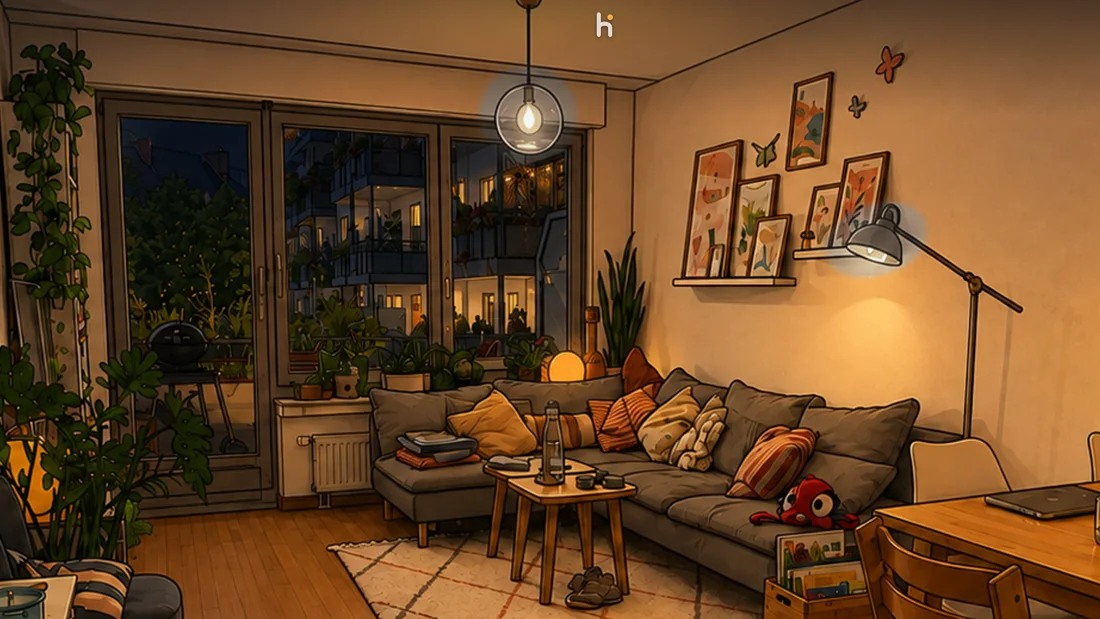
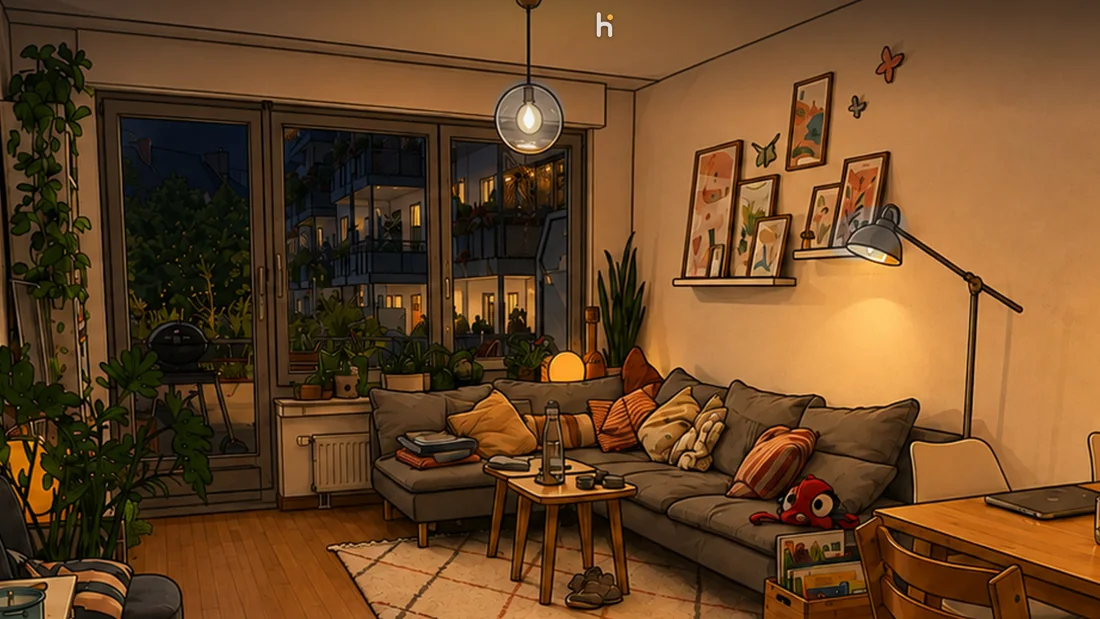
chore(public): promote private source 2d398f7e0242
Private-Source: 2d398f7e02424f9d21ca521e7d3824b8a1775445

diff --git a/app/src/lib/demo/demo-mode.ts b/app/src/lib/demo/demo-mode.ts
@@ -439,6 +439,67 @@ export const DEMO_DEVICE_CONFIG_KEY = 'hmi:device-config:v1';
 export const DEMO_LIGHT_PLACEMENT_KEY = 'hmi:immersion-light:v1';
 const DEMO_LIGHT_PLACEMENTS = {
   wohnzimmer: {
+    'light.wohnzimmer_kugellampen': { x: 0.4575, y: 0.199, radius: 0.022 },
+    'light.wohnzimmer_esstisch': { x: 0.894, y: 0.119, radius: 0.058, ry: 0.034 },
+    'light.wohnzimmer_fensterlampe': { x: 0.648, y: 0.293, radius: 0.025, ry: 0.016, rotation: -18 },
+    'light.wohnzimmer_tv': { x: 0.476, y: 0.398, radius: 0.013 },
+    [DEMO_COVER_ENTITY]: { x: 0.36, y: 0.3, radius: 0.16 },
+  },
+  schlafzimmer: {
+    'light.schlafzimmer_bett': { x: 0.658, y: 0.475, radius: 0.018, ry: 0.017 },
+  },
+  bad: {
+    'light.bad_spiegel': { x: 0.059, y: 0.067, radius: 0.045, ry: 0.051 },
+  },
+  kueche: {
+    'light.kueche_ledleiste': { x: 0.9, y: 0.314, radius: 0.105, ry: 0.012 },
+  },
+};
+
+/* Die Projektseite zeigt die Bildsteuerung und verlinkt das Bild auf
+   `demo/#image` (Owner 2026-10-25): Dort öffnet die Demo gleich im Wohnzimmer in
+   der Bildsteuerung, ohne Begrüßung im Standby — wer auf die Lampe im Bild
+   tippen wollte, tippt jetzt auf die echte. Die bisherige Anordnung wird
+   gemerkt und beim nächsten Aufruf ohne Sprungmarke zurückgelegt, damit
+   „Open the demo“ wieder wie gewohnt beginnt. Text statt layout-config.ts,
+   damit der Startpfad klein bleibt. */
+const DEMO_LAYOUT_KEY = 'hmi:home-layout:v1';
+const DEMO_LAYOUT_BEFORE_IMAGE_KEY = 'hmi:demo-layout-before-image';
+export const DEMO_IMAGE_HASH = 'image';
+
+export function applyDemoImageLink(
+  hash: string,
+  storage: Pick<Storage, 'getItem' | 'setItem' | 'removeItem'>,
+  session: Pick<Storage, 'setItem'> | null,
+): void {
+  const before = storage.getItem(DEMO_LAYOUT_BEFORE_IMAGE_KEY);
+  if (hash.replace(/^#/, '').trim().toLowerCase() !== DEMO_IMAGE_HASH) {
+    if (before === null) return;
+    if (before === '') storage.removeItem(DEMO_LAYOUT_KEY);
+    else storage.setItem(DEMO_LAYOUT_KEY, before);
+    storage.removeItem(DEMO_LAYOUT_BEFORE_IMAGE_KEY);
+    return;
+  }
+  const current = storage.getItem(DEMO_LAYOUT_KEY);
+  if (before === null) storage.setItem(DEMO_LAYOUT_BEFORE_IMAGE_KEY, current ?? '');
+  let layout: Record<string, unknown> = {};
+  try { layout = JSON.parse(current ?? '{}') ?? {}; } catch { /* kaputt: neu anlegen */ }
+  if (typeof layout !== 'object' || Array.isArray(layout)) layout = {};
+  /* Eine Fläche genügt: Die Bildsteuerung zeigt keine Kontrollfläche. */
+  storage.setItem(DEMO_LAYOUT_KEY, JSON.stringify({
+    widthPreset: 'compact', ...layout, version: 1, homeView: 'image',
+    slots: [{ id: 'slot-1', roomId: 'wohnzimmer' }],
+  }));
+  try { session?.setItem('hmi:demo-greeted', '1'); } catch { /* dann eben mit Begrüßung */ }
+}
+
+/* Bis 0.48.1 reichten die Zonen weit über die gezeichneten Lampen hinaus; der
+   Schleier einer ausgeschalteten Lampe lag dann als grauer Fleck daneben
+   (Owner 2026-10-25). Wer die Demo damals geöffnet hat, trägt diese
+   Vorbelegung noch im Speicher. Liegt sie dort unverändert, wird sie durch die
+   engen Zonen ersetzt; selbst gesetzte Stellen bleiben. */
+const DEMO_LIGHT_PLACEMENTS_0_48 = {
+  wohnzimmer: {
     'light.wohnzimmer_kugellampen': { x: 0.457, y: 0.199, radius: 0.03 },
     'light.wohnzimmer_esstisch': { x: 0.889, y: 0.14, radius: 0.062, ry: 0.052 },
     'light.wohnzimmer_fensterlampe': { x: 0.653, y: 0.298, radius: 0.032, ry: 0.022, rotation: -18 },
@@ -459,7 +520,8 @@ const DEMO_LIGHT_PLACEMENTS = {
 export function installDemoDevices(storage: Pick<Storage, 'getItem' | 'setItem'> | null = typeof localStorage === 'undefined' ? null : localStorage): void {
   if (!IS_DEMO || !storage) return;
   try {
-    if (storage.getItem(DEMO_LIGHT_PLACEMENT_KEY) === null) {
+    const stored = storage.getItem(DEMO_LIGHT_PLACEMENT_KEY);
+    if (stored === null || stored === JSON.stringify({ version: 1, rooms: DEMO_LIGHT_PLACEMENTS_0_48 })) {
       storage.setItem(DEMO_LIGHT_PLACEMENT_KEY, JSON.stringify({ version: 1, rooms: DEMO_LIGHT_PLACEMENTS }));
     }
   } catch { /* ohne Speicher keine Vorbelegung, die Demo läuft trotzdem */ }
@@ -479,6 +541,9 @@ export function installDemoDevices(storage: Pick<Storage, 'getItem' | 'setItem'>
 export function installDemoApi(): void {
   if (!IS_DEMO || typeof globalThis.fetch !== 'function') return;
   installDemoDevices();
+  try {
+    applyDemoImageLink(location.hash, localStorage, sessionStorage);
+  } catch { /* ohne Speicher startet die Demo wie immer */ }
 
   const original = globalThis.fetch.bind(globalThis);
 

diff --git a/app/src/lib/demo/demo-mode.test.ts b/app/src/lib/demo/demo-mode.test.ts
@@ -1,5 +1,6 @@
 import { describe, expect, it } from 'vitest';
-import { DEMO_DEVICE_CONFIG_KEY, DEMO_LIGHT_PLACEMENT_KEY, installDemoDevices } from './demo-mode.ts';
+import { applyDemoImageLink, DEMO_DEVICE_CONFIG_KEY, DEMO_LIGHT_PLACEMENT_KEY, installDemoDevices } from './demo-mode.ts';
+import { LAYOUT_CONFIG_KEY, parseLayoutConfig } from '../state/layout-config.ts';
 import { DEVICE_CONFIG_KEY, parseDeviceConfig } from '../state/device-config.ts';
 import { IMMERSION_LIGHT_CONFIG_KEY, parseImmersionLightConfig } from '../state/immersion-light.ts';
 
@@ -23,6 +24,50 @@ describe('demo devices', () => {
     store.set(IMMERSION_LIGHT_CONFIG_KEY, '{"version":1,"rooms":{}}');
     installDemoDevices(storage);
     expect(store.get(IMMERSION_LIGHT_CONFIG_KEY)).toBe('{"version":1,"rooms":{}}');
+  });
+
+  it('replaces the untouched wide seed of earlier visits with the close zones', () => {
+    const store = new Map<string, string>();
+    const storage = { getItem: (k: string) => store.get(k) ?? null, setItem: (k: string, v: string) => { store.set(k, v); } };
+    installDemoDevices(storage);
+    const seeded = store.get(IMMERSION_LIGHT_CONFIG_KEY);
+    if (!seeded) return; // nicht im Demo-Build: nichts vorbelegt
+    /* Die breite Vorbelegung bis 0.48.1 im Speicher eines früheren Besuchs. */
+    const wide = JSON.parse(seeded);
+    wide.rooms.wohnzimmer['light.wohnzimmer_kugellampen'] = { x: 0.457, y: 0.199, radius: 0.03 };
+    wide.rooms.wohnzimmer['light.wohnzimmer_esstisch'] = { x: 0.889, y: 0.14, radius: 0.062, ry: 0.052 };
+    wide.rooms.wohnzimmer['light.wohnzimmer_fensterlampe'] = { x: 0.653, y: 0.298, radius: 0.032, ry: 0.022, rotation: -18 };
+    wide.rooms.wohnzimmer['light.wohnzimmer_tv'] = { x: 0.479, y: 0.398, radius: 0.024 };
+    wide.rooms.schlafzimmer['light.schlafzimmer_bett'] = { x: 0.658, y: 0.475, radius: 0.034, ry: 0.04 };
+    wide.rooms.bad['light.bad_spiegel'] = { x: 0.058, y: 0.062, radius: 0.058, ry: 0.05 };
+    wide.rooms.kueche['light.kueche_ledleiste'] = { x: 0.9, y: 0.328, radius: 0.105, ry: 0.03 };
+    store.set(IMMERSION_LIGHT_CONFIG_KEY, JSON.stringify(wide));
+    installDemoDevices(storage);
+    expect(store.get(IMMERSION_LIGHT_CONFIG_KEY)).toBe(seeded);
+  });
+
+  it('opens image control in the living room from demo/#image and restores the layout afterwards', () => {
+    const store = new Map<string, string>();
+    const storage = {
+      getItem: (k: string) => store.get(k) ?? null,
+      setItem: (k: string, v: string) => { store.set(k, v); },
+      removeItem: (k: string) => { store.delete(k); },
+    };
+    const session = new Map<string, string>();
+    const own = '{"version":1,"widthPreset":"wide","homeView":"rooms","slots":[{"id":"slot-1","roomId":"kueche"}]}';
+    store.set(LAYOUT_CONFIG_KEY, own);
+    applyDemoImageLink('#image', storage, { setItem: (k, v) => { session.set(k, v); } });
+    const layout = parseLayoutConfig(store.get(LAYOUT_CONFIG_KEY) ?? null);
+    expect(layout).toMatchObject({ homeView: 'image', widthPreset: 'wide', slots: [{ id: 'slot-1', roomId: 'wohnzimmer' }] });
+    expect(session.get('hmi:demo-greeted')).toBe('1');
+    applyDemoImageLink('#image', storage, null);
+    applyDemoImageLink('', storage, null);
+    expect(store.get(LAYOUT_CONFIG_KEY)).toBe(own);
+    store.delete(LAYOUT_CONFIG_KEY);
+    applyDemoImageLink('#IMAGE', storage, null);
+    expect(parseLayoutConfig(store.get(LAYOUT_CONFIG_KEY) ?? null).homeView).toBe('image');
+    applyDemoImageLink('#energy', storage, null);
+    expect(store.has(LAYOUT_CONFIG_KEY)).toBe(false);
   });
 
   it('seeds the ceiling fan only while nothing is stored yet', () => {

diff --git a/website/index.html b/website/index.html
@@ -153,7 +153,7 @@
           <a class="text-link" href="docs/using/home-screen/#three-views">How image control works <span aria-hidden="true">→</span></a>
         </div>
         <figure>
-          <a class="image-link lamp-sequence" href="media/picture-control.webp" aria-label="View the image-control screenshot with every device labelled">
+          <a class="image-link lamp-sequence" href="demo/#image" aria-label="Open the demo in image control and tap the lamps yourself">
             <img src="media/picture-lamps-0-1100.webp"
                  srcset="media/picture-lamps-0-700.webp 700w, media/picture-lamps-0-1100.webp 1100w, media/picture-lamps-0.webp 2140w"
                  sizes="(min-width: 1440px) 850px, (min-width: 1101px) 62vw, calc(100vw - 48px)"
@@ -170,7 +170,7 @@
             <span class="lamp-tap lamp-tap-1" aria-hidden="true"></span>
             <span class="lamp-tap lamp-tap-2" aria-hidden="true"></span>
           </a>
-          <figcaption><span>Image control · web demo. Lamps that are off sit pale in the picture.</span><a href="media/picture-control.webp">With labels <span aria-hidden="true">↗</span></a></figcaption>
+          <figcaption><span>Image control · web demo. Lamps that are off sit pale in the picture.</span><a href="demo/#image">Try it in the demo <span aria-hidden="true">↗</span></a></figcaption>
         </figure>
       </div>
     </div>

diff --git a/website/site.css b/website/site.css
@@ -143,8 +143,8 @@ a.lamp-sequence { position: relative; display: grid; grid-template-columns: minm
 .lamp-frame-1 { animation-name: lamp-frame-1; }
 .lamp-frame-2 { animation-name: lamp-frame-2; }
 .lamp-tap { position: absolute; width: 7%; aspect-ratio: 1; translate: -50% -50%; border: 2px solid rgb(255 255 255 / 0.9); border-radius: 50%; opacity: 0; pointer-events: none; animation: 9s ease-out infinite; }
-.lamp-tap-1 { left: 79.7%; top: 38.7%; animation-name: lamp-tap-1; }
-.lamp-tap-2 { left: 48%; top: 18.5%; animation-name: lamp-tap-2; }
+.lamp-tap-1 { left: 78.9%; top: 37.6%; animation-name: lamp-tap-1; }
+.lamp-tap-2 { left: 48.1%; top: 18.5%; animation-name: lamp-tap-2; }
 @keyframes lamp-frame-1 { 0%, 27% { opacity: 0; } 34%, 90% { opacity: 1; } 100% { opacity: 0; } }
 @keyframes lamp-frame-2 { 0%, 58% { opacity: 0; } 65%, 90% { opacity: 1; } 100% { opacity: 0; } }
 @keyframes lamp-tap-1 { 0%, 22% { opacity: 0; transform: scale(0.4); } 25% { opacity: 1; } 33%, 100% { opacity: 0; transform: scale(1.3); } }

diff --git a/ROADMAP.md b/ROADMAP.md
@@ -200,7 +200,7 @@ fault found in the web app is checked in the iOS app and the other way round.
 |---|---|---|
 | Private public-ready development | `v0.3.x` internal | Anonymised repository, publication-facing documentation, test suite and static demo build stay green; no alpha is published |
 | Installable public beta | `v0.4.0-beta.1` | First public release: the final package passes isolated clean-room setup, control, reconnect and persistence without source edits |
-| Beta stabilisation | `v0.48.1` and later `v0.x` | External households install and update on their own ([#7](https://github.com/ralleur/hauser/issues/7) and later reports); a documented backup, restore and rollback on an installation the author does not operate is still outstanding |
+| Beta stabilisation | `v0.48.2` and later `v0.x` | External households install and update on their own ([#7](https://github.com/ralleur/hauser/issues/7) and later reports); a documented backup, restore and rollback on an installation the author does not operate is still outstanding |
 | Release candidate | `v0.x.0-rc.1` | Configuration contract frozen; clean install, upgrade and rollback green; only release blockers remain |
 | Stable | `v1.0.0` | The unchanged final RC is published and its actual release artifacts pass a fresh smoke test |
 

diff --git a/CHANGELOG.md b/CHANGELOG.md
@@ -3,6 +3,17 @@
 All notable user-visible changes to Hauser are documented here. The project uses
 Semantic Versioning for its public release line.
 
+## [0.48.2] - 2026-10-25
+
+- Room: the pale veil of a lamp that is off now stays on the lamp in the demo
+  rooms. Its zone had reached well past the globe, the shade or the bedside
+  lamp; demo visitors who still carry the old zones get the close ones once,
+  places they set themselves stay.
+- Room: tapping the lamp picture on the project page opens the demo straight
+  in image control in the living room, where the lamps can really be tapped.
+  `demo/#image` leads there; opening the demo normally afterwards starts with
+  the usual view again.
+
 ## [0.48.1] - 2026-10-24
 
 - Scenes: leaving the scene editor puts every lamp back the way it was, also

diff --git a/hauser/DOCS.md b/hauser/DOCS.md
@@ -156,7 +156,7 @@ runtime user and only then serves.
 ## Versions and updates
 
 The App carries the same version as the Hauser release it packages — this
-documentation describes `0.48.1`. The Supervisor resolves the image as
+documentation describes `0.48.2`. The Supervisor resolves the image as
 `ghcr.io/ralleur/hauser:<version>` from the manifest, and the release gate
 refuses a manifest version without a matching published image. Updates arrive
 through Home Assistant's normal App update flow; the changelog shipped with the

diff --git a/docs/08-installation.md b/docs/08-installation.md
@@ -1,8 +1,8 @@
 # Installation and operation
 
-Hauser `v0.48.1` is the current public technical beta. Once a tag passes
+Hauser `v0.48.2` is the current public technical beta. Once a tag passes
 the release workflow, the release package uses
-`ghcr.io/ralleur/hauser:v0.48.1`. An explicit source-build overlay remains
+`ghcr.io/ralleur/hauser:v0.48.2`. An explicit source-build overlay remains
 available for development and source-level verification. Neither path comes with
 a support promise.
 

diff --git a/README.md b/README.md
@@ -97,7 +97,7 @@ and [updates and backups](https://hauserhome.app/docs/getting-started/updates-an
 
 ## Status and expectations
 
-Current server release: [**v0.48.1**](https://github.com/ralleur/hauser/releases/tag/v0.48.1).
+Current server release: [**v0.48.2**](https://github.com/ralleur/hauser/releases/tag/v0.48.2).
 The native iOS app has its own TestFlight releases.
 
 Hauser began on its maker’s wall panel and is still a personal project in

diff --git a/hauser/CHANGELOG.md b/hauser/CHANGELOG.md
@@ -1,5 +1,10 @@
 # Changelog
 
+## 0.48.2 - 2026-10-25
+
+- The pale veil of a lamp that is off stays on the lamp in the demo rooms.
+- The lamp picture on the project page opens the demo in image control.
+
 ## 0.48.1 - 2026-10-24
 
 - Leaving the scene editor puts every lamp back the way it was, also next to a
